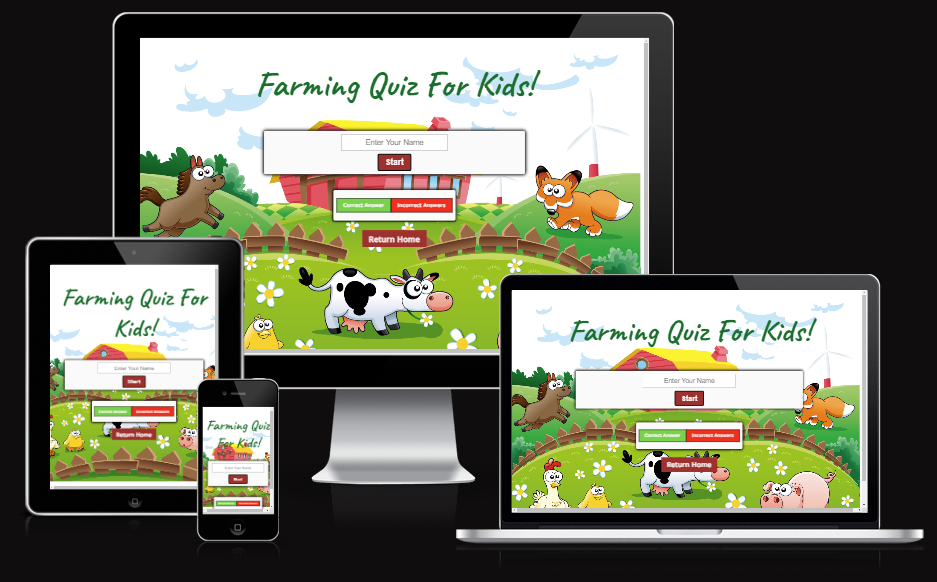
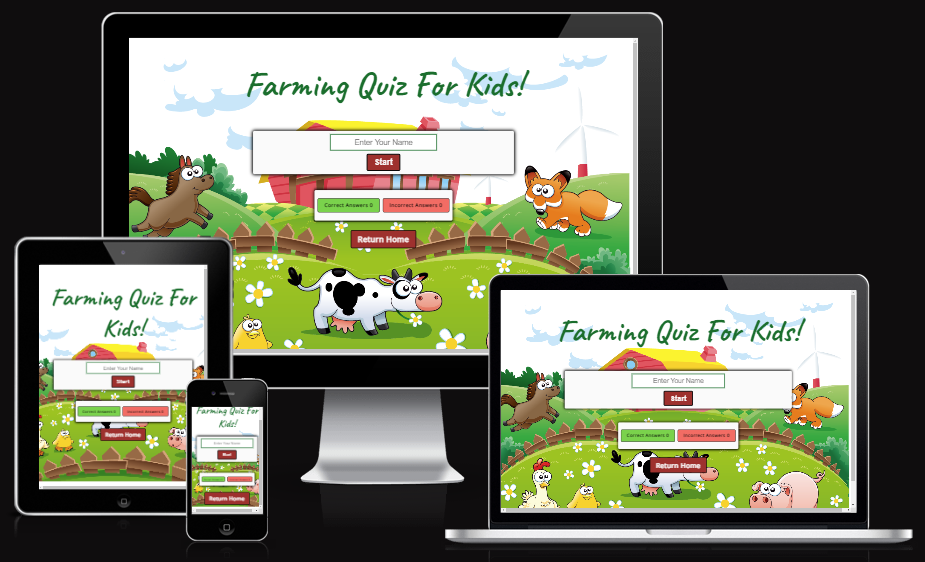
update screenshots on readme

diff --git a/assets/js/script.js b/assets/js/script.js
@@ -15,7 +15,6 @@ function nameFunction() {
     let message = document.querySelector('#message');
 }
 startButton.addEventListener('click', startGame);
-
 nextButton.addEventListener('click', () => {
     currentQuestionsIndex++;
     setNextQuestion();
@@ -91,9 +90,13 @@ function selectAnswer(e) {
             setTimeout(function () {
             questionContainerElement.classList.add('hide');
             message.classList.remove('hide'); {
-            message.innerHTML = 'You are going to be a great farmer, ' + userInput.value
+            message.innerHTML = 'You are going to be a great farmer, ' + userInput.value;
             startButton.innerText = 'Click here to play again';
             startButton.classList.remove('hide');
+            startButton.addEventListener('click', () => {
+                document.getElementById('score').innerText = 0;
+                document.getElementById('incorrect').innerText = 0;
+            });
             }
         }, 1500);
     }

diff --git a/README.md b/README.md
@@ -197,6 +197,7 @@ The site was tested for responsiveness at [Am I Responsive Ready](https://amires
 * Responsiveness on small screens caused title to be lost on right edge. This was resolved by adjusting the rem size in media queries(CSS).
 * Yellow border was not big enough on selected answer. This was resolved by making the border pixels larger.
 * Correct/Incorrect buttons colour was deemed to be insufficient in contrast. This was resolved by using the Deque University website to find suitable colours and changed CSS.
+* Scores did not reset when replay button was clicked. This was resolved by setting the inner text of the score/incorrect to zero.
 * Proof read though and amend spelling mistakes.
 * No delay between the last question and the message. This was resolved by adding a setTimout to the question loop.
 
